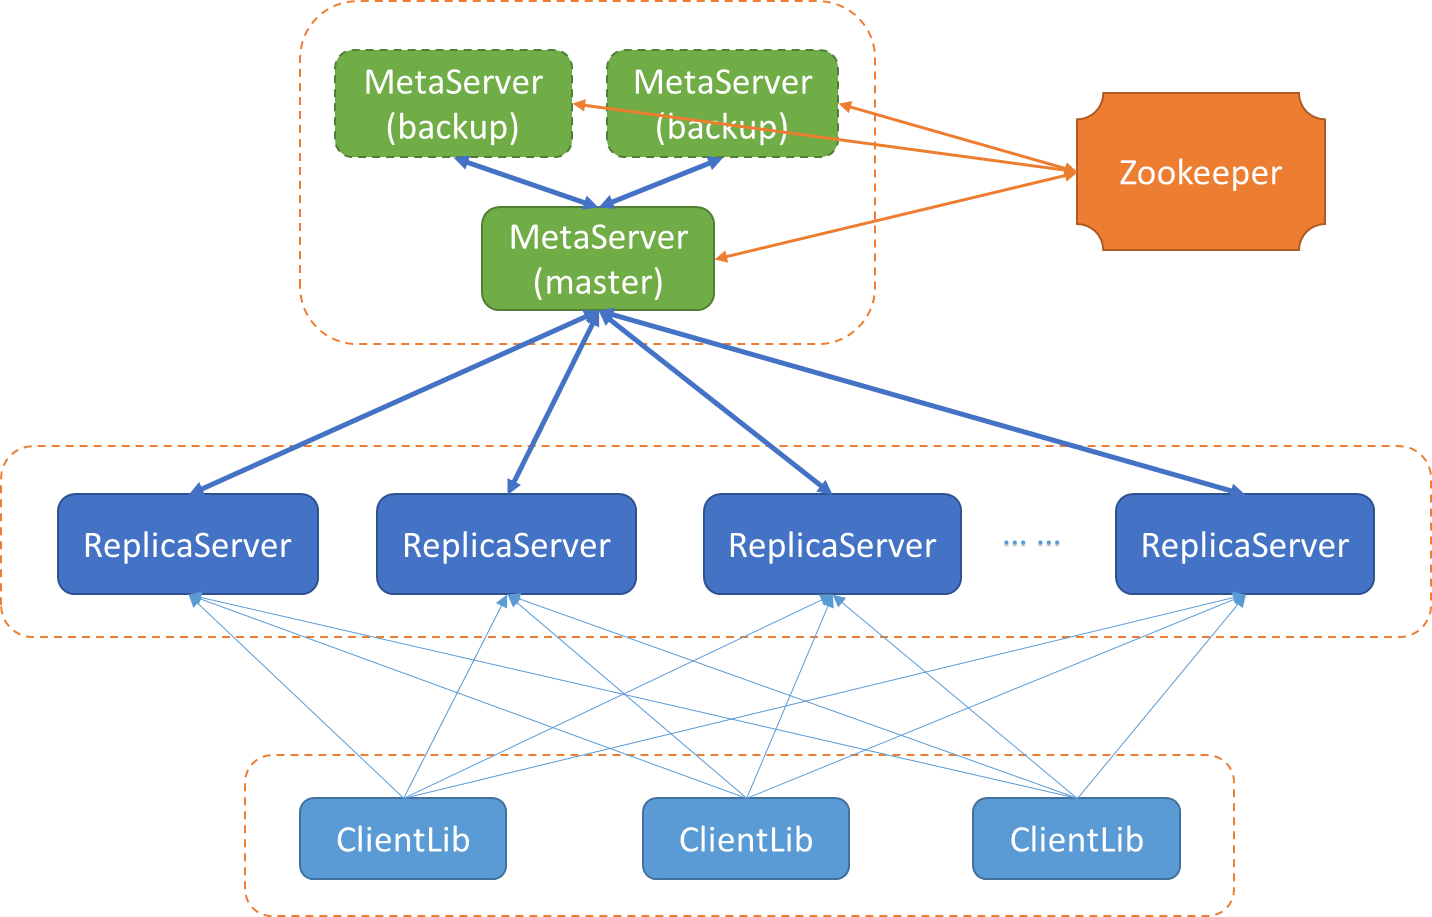
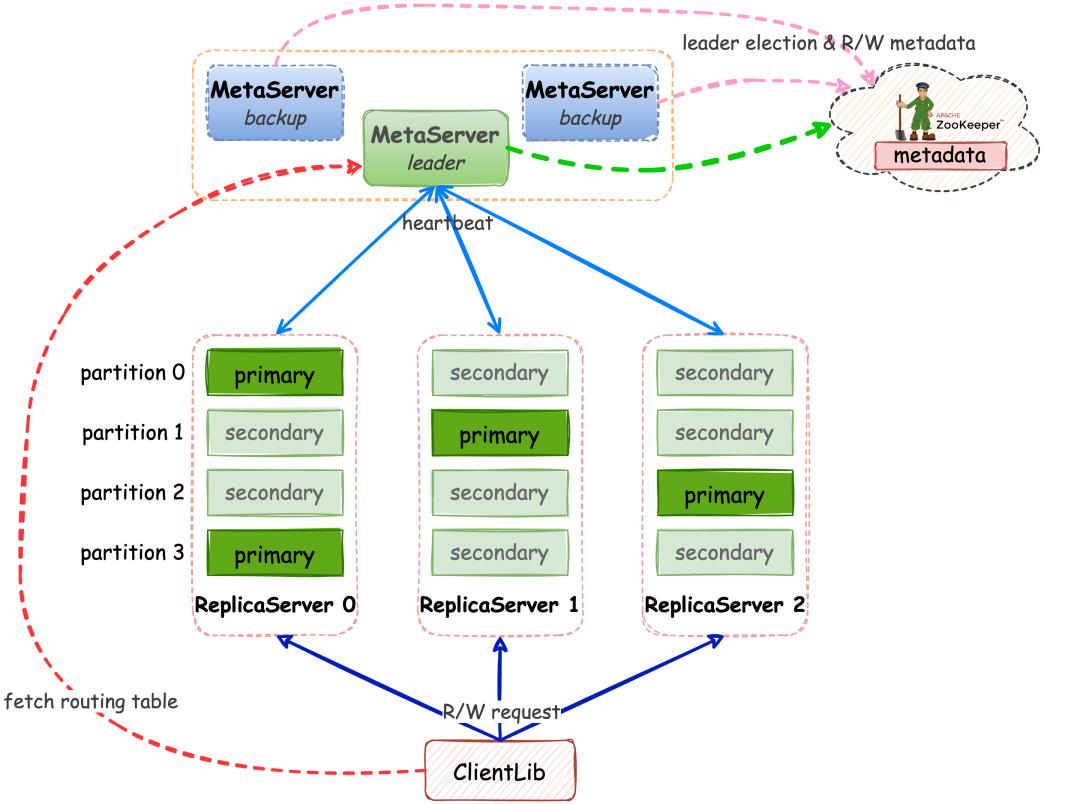
Update Chinese architecture doc (#37)

diff --git a/_overview/zh/architecture.md b/_overview/zh/architecture.md
@@ -6,42 +6,42 @@ permalink: /overview/architecture
 
 Pegasus系统的整体架构如下图所示，一共分为四个部分：
 
-- **ClientLib**：负责屏蔽数据到存储服务器的映射规则，以及和存储服务器的通信细节，而提供一个简洁的Key-Value存储接口供用户使用
-- **ReplicaServer**：负责数据的存储和备份，接收客户端发来的数据存储请求
-- **MetaServer**：负责ReplicaServer的存活检测、Replica分配、负载均衡等，采用一主多备模式
-- **Zookeeper**：负责对MetaServer进行选主，以实现Master节点的高可用，并存储系统的各种元数据
+- **Client Lib**：封装数据到存储服务器的映射规则，以及和存储服务器的通信细节，而提供一套简洁的Key-Value存取接口供用户使用
+- **Replica Server**：负责数据存储，响应Client Lib的数据存取请求
+- **Meta Server**：负责Replica Server的存活检测、数据分片(replica)管理、负载均衡等，采用一主多备模式
+- **Zookeeper**：负责对Meta Server进行选主，以实现leader节点的高可用，并存储系统的各种元数据
 
 ![pegasus-architecture-components](/assets/images/pegasus-architecture-components.png){:class="img-responsive"}
 
-## ReplicaServer
+## Replica Server
 
-ReplicaServer主要负责数据存储和存取，以replica为单位进行服务：
+Replica Server主要负责数据存储和存取，以replica为单位进行服务：
 
-- 服务的replica既可能是PrimaryReplica，也可能是SecondaryReplica
+- 服务的replica既可能是Primary Replica，也可能是Secondary Replica
 - 底层使用RocksDB来存储数据
-- 管理commit log，并实现replication协议，提供数据一致性保证
+- 管理commit log，并实现数据复制协议，提供数据一致性保证
 
-## MetaServer
+## Meta Server
 
-MetaServer采用一主多备模式（one master, multiple backups），所有的状态都会持久化到Zookeeper上；同时通过Zookeeper进行选主。当master故障后，另一台backup立即抢到锁，然后从Zookeeper上恢复状态，成为新的master。MetaServer负责的功能包括：
+Meta Server采用一主多备模式，所有的状态都会持久化到Zookeeper上，同时通过Zookeeper进行选主。当leader故障后，另一台backup立即抢到锁，然后从Zookeeper上恢复状态，成为新的leader。Meta Server负责的功能包括：
 
 - 系统初始化
-- ReplicaServer的管理
+- Replica Server的管理
 - Replica的分配、管理和负载均衡调度
 - Table的创建与删除
-- 响应Client请求，向Client提供最新的路由表
+- 响应Client请求，对Client提供最新的路由表
 
 ## Zookeeper
 
 Zookeeper主要有两个功能：
 
 - 系统元信息存储
-- MetaServer选主
+- Meta Server选主
 
-## ClientLib
+## Client Lib
 
-ClientLib对用户提供数据存储接口，特点：
+Client Lib对用户提供数据存取接口，特点：
 
 - 接口简洁：对用户提供最简单的接口，将寻址和容错等细节封装在内部
-- 配置简单：用户只需通过配置文件指定MetaServer地址列表，就可以访问集群，类似于Zookeeper
-- 尽量直接与ReplicaServer进行交互，尽量少地访问MetaServer以避免热点问题，不依赖Zookeeper
+- 配置简单：用户只需通过配置文件指定Meta Server地址列表，就可以访问集群
+- 尽量直接与Replica Server进行交互，尽量少地访问Meta Server以避免单点问题，不依赖Zookeeper
